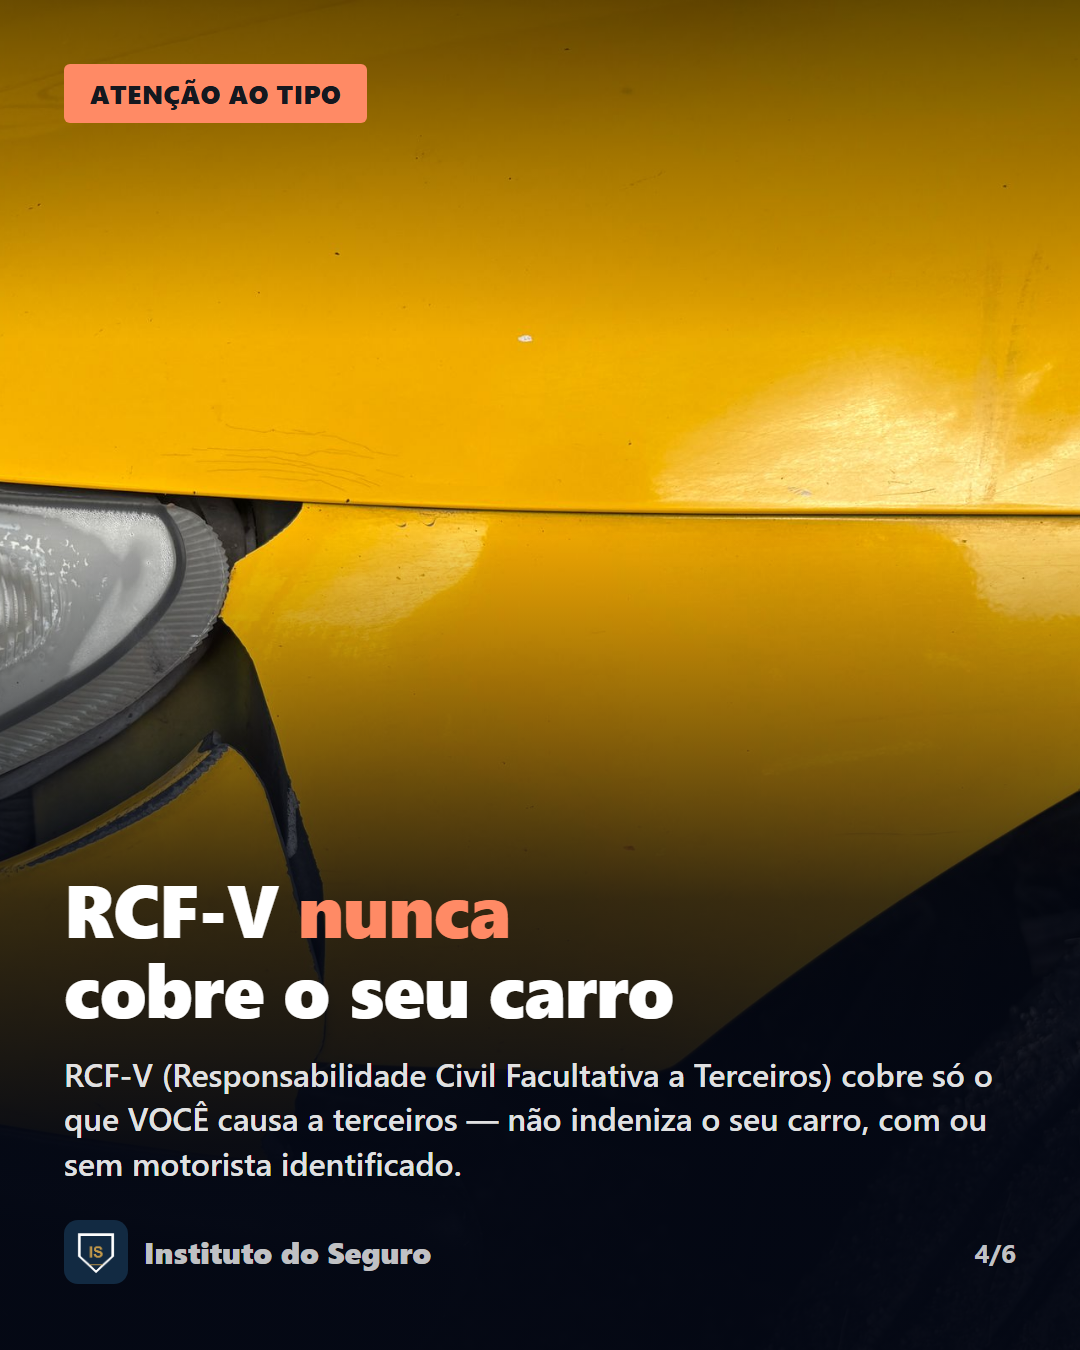
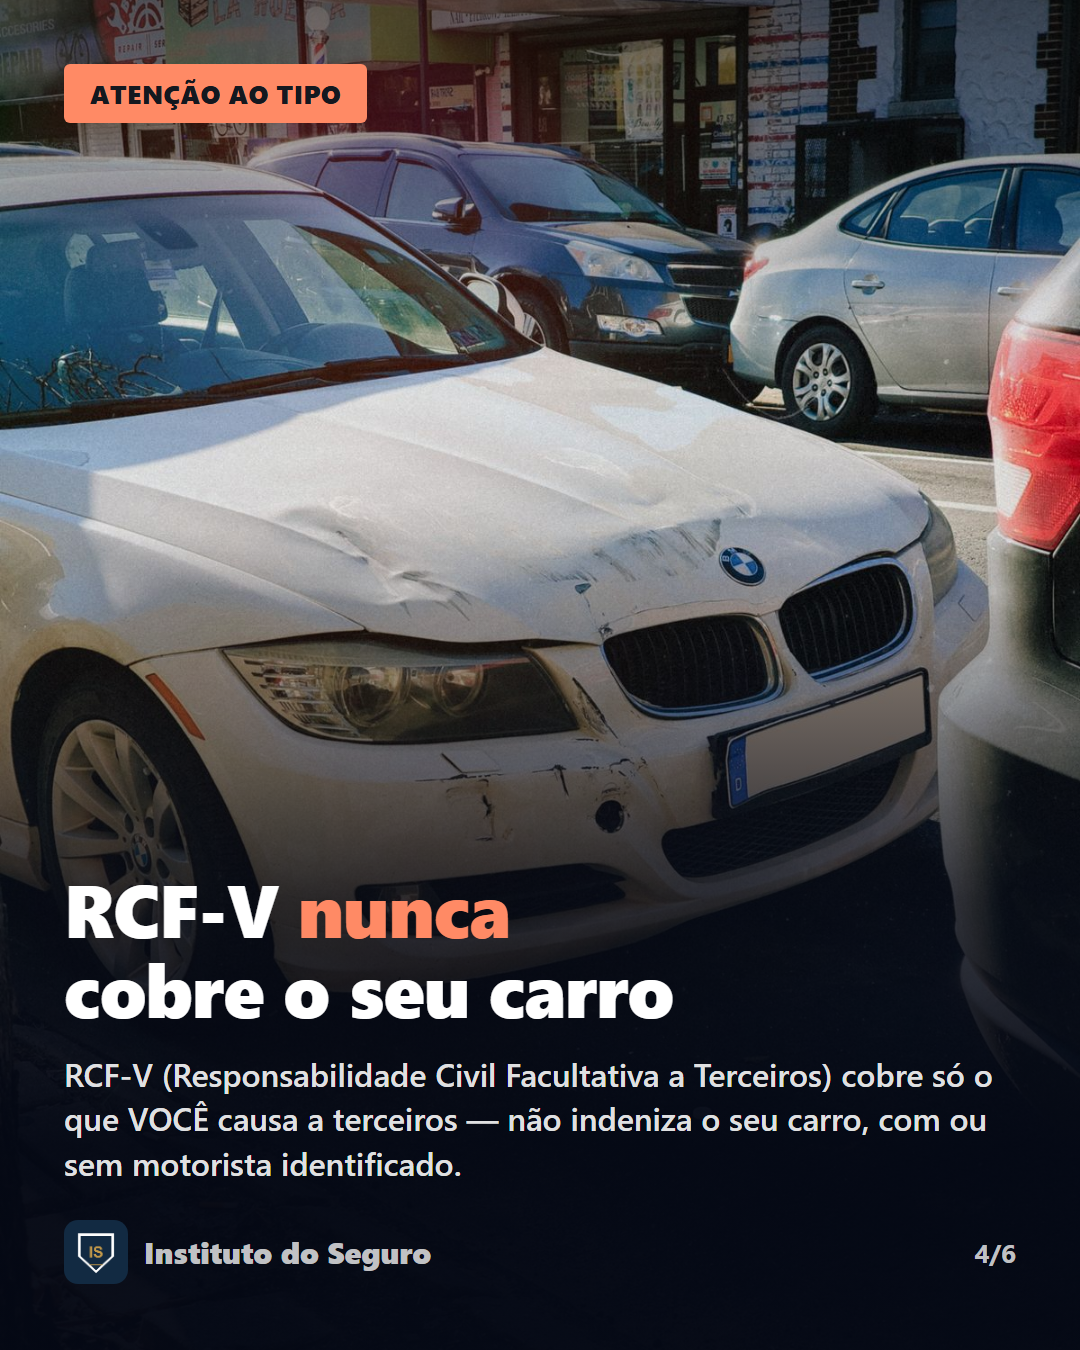
Troca foto do post-02: dano visivel demais sutil na anterior
Usuario apontou que a foto do para-choque amarelo mostrava so uma parte
do carro sem dano aparente. Trocada por foto com amassado/arranhoes
claramente visiveis no capo e para-choque (BMW branco).

diff --git a/content/semana-04/post-02-mito-auto-terceiro-nao-identificado/story.html b/content/semana-04/post-02-mito-auto-terceiro-nao-identificado/story.html
@@ -25,7 +25,7 @@
   .brand span { color:rgba(255,255,255,0.75);font-weight:800;font-size:24px; }
 </style></head>
 <body><div class="frame">
-  <img class="bg" src="C:/Users/crist/instituto-do-seguro/content/assets/ref-pexels-bumper-yellow.jpg"><div class="scrim-top-s"></div><div class="scrim-bottom-s"></div>
+  <img class="bg" src="C:/Users/crist/instituto-do-seguro/content/assets/ref-pexels-bmw-damaged.jpg"><div class="scrim-top-s"></div><div class="scrim-bottom-s"></div>
   <div class="safe"><div class="tag">MITO OU VERDADE</div></div>
   <div class="bottom">
     <h1>Bateram e fugiram —<br>seu seguro <span class='hl'>cobre?</span></h1>

diff --git a/content/semana-04/post-02-mito-auto-terceiro-nao-identificado/slide-03.html b/content/semana-04/post-02-mito-auto-terceiro-nao-identificado/slide-03.html
@@ -17,7 +17,7 @@
   .brandline { display:flex;justify-content:space-between;align-items:center; }
 </style></head>
 <body><div class="frame">
-  <img class="bg" src="C:/Users/crist/instituto-do-seguro/content/assets/ref-pexels-bumper-yellow.jpg">
+  <img class="bg" src="C:/Users/crist/instituto-do-seguro/content/assets/ref-pexels-bmw-damaged.jpg">
   <div class="scrim-top"></div>
   <div class="scrim-bottom"></div>
   <div class="tag">SE VOCÊ TEM ISSO</div>

diff --git a/content/semana-04/post-02-mito-auto-terceiro-nao-identificado/slide-04.html b/content/semana-04/post-02-mito-auto-terceiro-nao-identificado/slide-04.html
@@ -17,7 +17,7 @@
   .brandline { display:flex;justify-content:space-between;align-items:center; }
 </style></head>
 <body><div class="frame">
-  <img class="bg" src="C:/Users/crist/instituto-do-seguro/content/assets/ref-pexels-bumper-yellow.jpg">
+  <img class="bg" src="C:/Users/crist/instituto-do-seguro/content/assets/ref-pexels-bmw-damaged.jpg">
   <div class="scrim-top"></div>
   <div class="scrim-bottom"></div>
   <div class="tag">ATENÇÃO AO TIPO</div>

diff --git a/content/semana-04/post-02-mito-auto-terceiro-nao-identificado/slide-01.html b/content/semana-04/post-02-mito-auto-terceiro-nao-identificado/slide-01.html
@@ -17,7 +17,7 @@
   .brandline { display:flex;justify-content:space-between;align-items:center; }
 </style></head>
 <body><div class="frame">
-  <img class="bg" src="C:/Users/crist/instituto-do-seguro/content/assets/ref-pexels-bumper-yellow.jpg">
+  <img class="bg" src="C:/Users/crist/instituto-do-seguro/content/assets/ref-pexels-bmw-damaged.jpg">
   <div class="scrim-top"></div>
   <div class="scrim-bottom"></div>
   <div class="tag">MITO OU VERDADE</div>

diff --git a/content/semana-04/post-02-mito-auto-terceiro-nao-identificado/slide-05.html b/content/semana-04/post-02-mito-auto-terceiro-nao-identificado/slide-05.html
@@ -17,7 +17,7 @@
   .brandline { display:flex;justify-content:space-between;align-items:center; }
 </style></head>
 <body><div class="frame">
-  <img class="bg" src="C:/Users/crist/instituto-do-seguro/content/assets/ref-pexels-bumper-yellow.jpg">
+  <img class="bg" src="C:/Users/crist/instituto-do-seguro/content/assets/ref-pexels-bmw-damaged.jpg">
   <div class="scrim-top"></div>
   <div class="scrim-bottom"></div>
   <div class="tag">FIQUE ATENTO</div>

diff --git a/content/semana-04/post-02-mito-auto-terceiro-nao-identificado/slide-06.html b/content/semana-04/post-02-mito-auto-terceiro-nao-identificado/slide-06.html
@@ -17,7 +17,7 @@
   .brandline { display:flex;justify-content:space-between;align-items:center; }
 </style></head>
 <body><div class="frame">
-  <img class="bg" src="C:/Users/crist/instituto-do-seguro/content/assets/ref-pexels-bumper-yellow.jpg">
+  <img class="bg" src="C:/Users/crist/instituto-do-seguro/content/assets/ref-pexels-bmw-damaged.jpg">
   <div class="scrim-top"></div>
   <div class="scrim-bottom"></div>
   <div class="tag">GUARDA ISSO</div>

diff --git a/content/semana-04/post-02-mito-auto-terceiro-nao-identificado/slide-02.html b/content/semana-04/post-02-mito-auto-terceiro-nao-identificado/slide-02.html
@@ -17,7 +17,7 @@
   .brandline { display:flex;justify-content:space-between;align-items:center; }
 </style></head>
 <body><div class="frame">
-  <img class="bg" src="C:/Users/crist/instituto-do-seguro/content/assets/ref-pexels-bumper-yellow.jpg">
+  <img class="bg" src="C:/Users/crist/instituto-do-seguro/content/assets/ref-pexels-bmw-damaged.jpg">
   <div class="scrim-top"></div>
   <div class="scrim-bottom"></div>
   <div class="tag">A RESPOSTA</div>

diff --git a/scripts/build_stories_semana04.py b/scripts/build_stories_semana04.py
@@ -28,7 +28,7 @@ STORIES = {
     "post-02-mito-auto-terceiro-nao-identificado": dict(
         tag="MITO OU VERDADE",
         title="Bateram e fugiram —<br>seu seguro <span class='hl'>cobre?</span>",
-        photo=p("ref-pexels-bumper-yellow.jpg"),
+        photo=p("ref-pexels-bmw-damaged.jpg"),
     ),
     "post-03-vale-a-pena-equipamentos-agricolas": dict(
         tag="VALE A PENA?",

diff --git a/scripts/build_lote_04.py b/scripts/build_lote_04.py
@@ -54,7 +54,7 @@ def build_post_01_mito_empresarial():
 
 def build_post_02_mito_auto_terceiro():
     out = os.path.join(CONTENT, "semana-04", "post-02-mito-auto-terceiro-nao-identificado")
-    photo = p("ref-pexels-bumper-yellow.jpg")
+    photo = p("ref-pexels-bmw-damaged.jpg")
     total = 6
     slides = [
         photo_slide(LOGO, photo, "MITO OU VERDADE",
